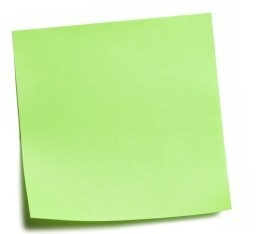
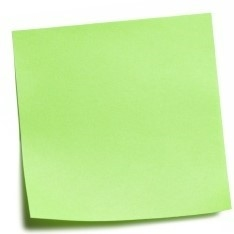
new post it update

Changed region(s): [[0.1795, 0.0299, 1.0, 0.9872], [0.0299, 0.1197, 0.3291, 0.9872]]

diff --git a/index.html b/index.html
@@ -51,7 +51,7 @@
             
             <img src="https://i.imgur.com/FT27YXo.png" id="checkbox1" width="400 " class="post_it"/> 
             <div class = "spacer"></div>
-            <img src="assets/Green_postit.jpg" width="390 " height="360 " class="post_it"/> 
+            <img src="https://i.imgur.com/IRvthMA.png" id="checkbox2" width="360 " height="360 " class="post_it"/> 
             
             <img src="assets/Pink_postit.jpg" width="425 " height="415 " class="post_it"/> 
            

diff --git a/components/postit.js b/components/postit.js
@@ -9,3 +9,14 @@ checkbox.onclick = function () {
         checkbox1.src = img_1;
     }
 }
+var checkbox = document.getElementById('checkbox2');
+        var img_1 = 'https://i.imgur.com/IRvthMA.png';
+        var img_2 = 'https://i.imgur.com/QymO2Qr.gif';
+
+checkbox.onclick = function () {
+    if (checkbox2.src == img_1) {
+        checkbox2.src = img_2;
+    } else if (checkbox2.src == img_2) {
+        checkbox2.src = img_1;
+    }
+}

diff --git a/css/style.css b/css/style.css
@@ -18,7 +18,7 @@ body {
     top: 500;
 }
 .hello {
-    background-color: rgb(255, 255, 255);
+    
     width: 50%;
     font-family: Helvetica, Arial, sans-serif;
 }
